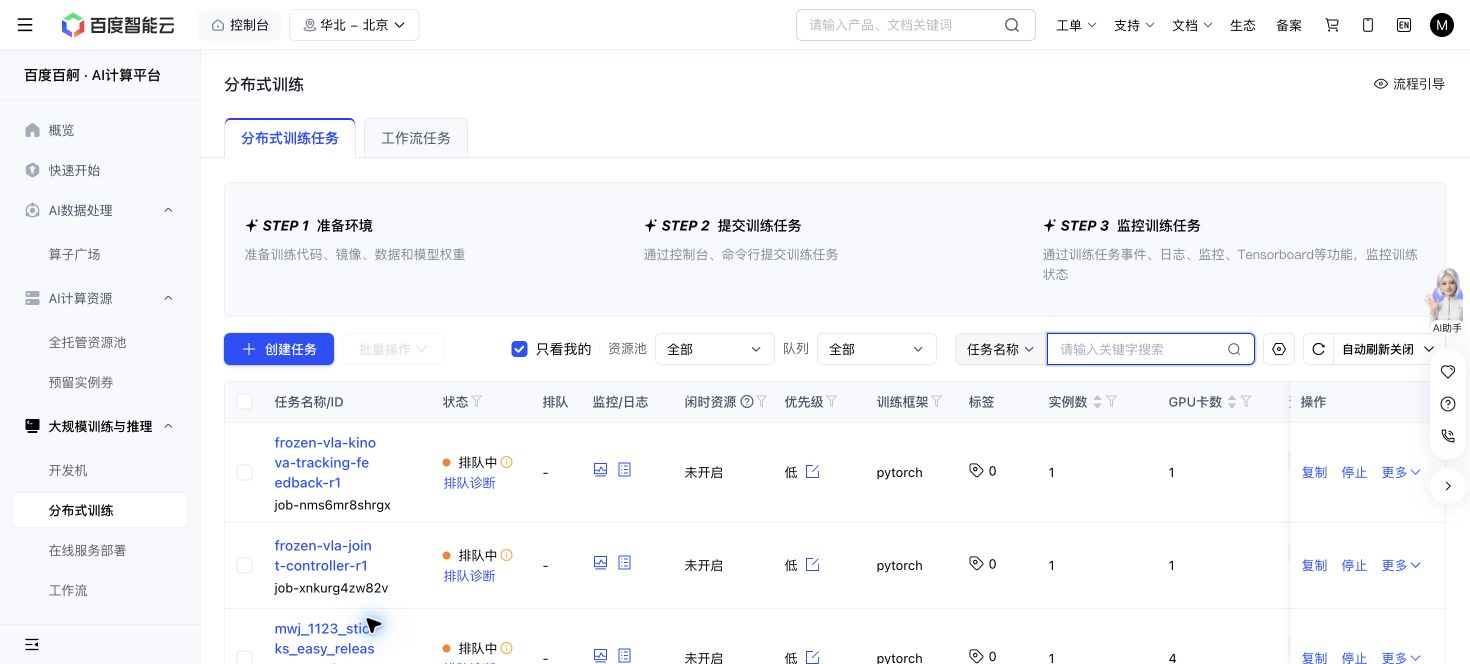
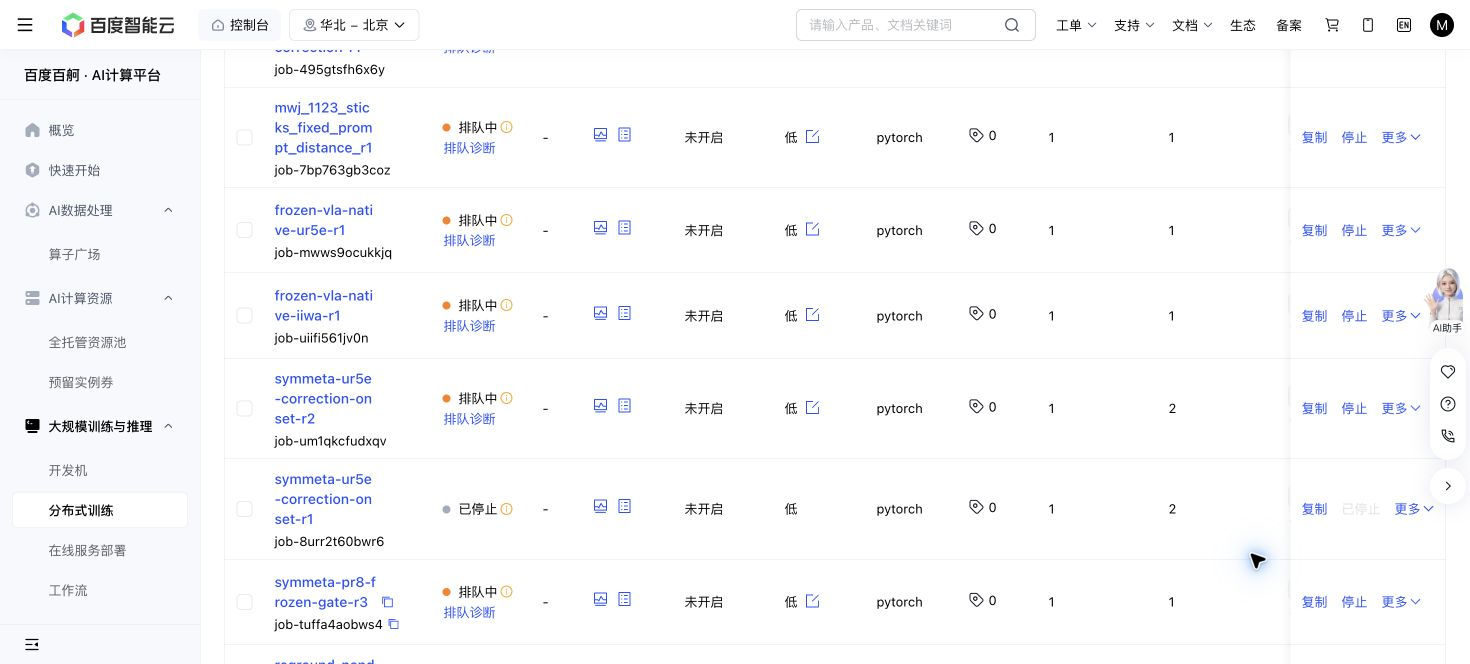
Launch the same-frame source-arm intervention and record all thirteen job states

diff --git a/outputs/frozen-vla-factory-20261123-r1/RESULT.md b/outputs/frozen-vla-factory-20261123-r1/RESULT.md
@@ -2,6 +2,8 @@
 
 **Question.** Can motion observed on a new arm identify a correction that recovers native task successes and preserves working behaviors? The task policy and its weights stay fixed. A change in the commanded direction, image, gripper or reachable poses can produce superficially similar failures. The comparisons below intervene on one of these at a time.
 
+**Baige status at 19:13 Shanghai, November 23.** Thirteen distinct GPU study submissions were verified in Distributed Training. Four completed (48 native arm-transfer episodes and 192 ReGround budget episodes). Nine await allocation. Of eight architecture jobs, the action and appearance panels finished, and six remain queued. Of five paper-control jobs, both budget evaluations finished. The false-correction, correction-onset and wrist-retry jobs remain queued. These totals count each scientific job once and exclude stopped or failed earlier attempts. Independent workers own the paired readbacks. [Scheduler receipt](scheduler.jpg) · [Coordination board](../coordination.md)
+
 **Candidate method.** A source model predicts how far the tool should move for a frozen policy command. A 15-control target trace estimates how this robot responds. At deployment, the adapter chooses a command whose predicted displacement matches the source movement, while penalizing departures from the frozen proposal. The source-shrunk 3D model uses measured metric end-effector position. A separate experiment tests whether adapting only the directions actually exercised in the trace improves over the ordinary ridge penalty. The existing SymMeta reader has a different information budget. It reads motion from fixed-camera video without seeing horizontal command values, then aligns the inferred motion with commands. This supplies a direction reference when the reported Cartesian displacement rotates with the command frame. Its established setting is planar command shifts. A change in camera orientation compromises that reference.
 
 **What prior work already covers.** ReGround tracks the motion intended by a frozen VLA using robot-state calibration and target dynamics. Mirage addresses cross-arm appearance and control using source-robot rendering and motion tracking. A general claim to freezing the policy and wrapping it with an adapter would duplicate prior work. The question here is what a short, passive trace identifies on a new arm and whether applying that correction increases success on the same held-out starts. [ReGround](https://arxiv.org/abs/2611.20244) · [Mirage](https://robot-mirage.github.io/)
@@ -27,7 +29,7 @@ The controller-interface experiment changes Panda's native Cartesian pose contro
 
 On drawer layout 14, Kinova opened the drawer 160.6 mm, touched it at 200 of 300 recorded steps and never touched the bowl. Its joints retained at least 0.756 rad of margin. On layout 15 it failed to open the drawer and touched the plate instead. Separate geometric tests also proved that one successful donor's final bowl contact at the donor wrist orientation lies outside Kinova's reach on both layouts. On layout 14 a 6.53° wrist change admitted the same position with finger-to-bowl contact. Another donor supplied a reachable release on both layouts. A policy adapter must be able to distinguish continuing to pull a drawer from approaching the next object, as well as infer which wrist attitudes the target can execute. [Recorded contacts, geometry and limits of each inference](../frozen-vla-reachability-20261123-r1/RESULT.md)
 
-Two workers are pursuing different explanations. One measures the effect of substituting source-arm geometry in the image at the current target gripper pose, with identical scene, camera and target physics and a target-render control. Another fits a small source-only progress estimator and tests whether public observations tell it when the drawer has opened on Kinova better than elapsed time. Both use held-out target observations and keep the VLA frozen. [Source-view registration](../frozen-vla-source-view-20261123-r1/PLAN.md)
+Job `job-69hluhi5wgb7` was submitted on one RTX 4090 with a 60-minute limit. Ten fixed observations and all six short native branch checks passed CPU qualification. The job measures the effect of substituting source-arm geometry in the image at the current target gripper pose, with identical scene, camera and target physics and a target-render control. A CPU worker fits a small source-only progress estimator and tests whether public observations tell it when the drawer has opened on Kinova better than elapsed time. Both keep the VLA frozen. RMA already learned rapid history-dependent motor adaptation for a quadruped, and SayCan used the current robot state to choose a feasible next skill. The open question here is whether a signal learned on source arms supports either intervention on a different arm using an existing frozen manipulation policy. [Source-view checks and launch command](../frozen-vla-source-view-20261123-r1/HANDOFF.md) · [Progress estimator and time controls](../frozen-vla-phase-transfer-20261123-r1/PLAN.md) · [RMA](https://ashish-kmr.github.io/rma-legged-robots/) · [SayCan](https://say-can.github.io/)
 
 ## Controls for the existing command-shift paper
 

diff --git a/outputs/coordination.md b/outputs/coordination.md
@@ -5,7 +5,7 @@
 | Work | Cluster / job / source | Last check, progress and next action |
 | --- | --- | --- |
 | Frozen VLA public drawer-phase transfer | Baige two-core CPU, no GPU | Testing source-only drawer-opening recognition against a fitted clock on held-out demonstrations and native Kinova3 trajectories. [Registered split and controls](frozen-vla-phase-transfer-20261123-r1/PLAN.md) |
-| Frozen VLA source morphology at the target grip site | Baige two-core CPU complete, 0 GPUh | All ten drawer exposures matched the native Kinova render exactly. Panda changed 1,946–8,244 external OpenPI pixels and zero wrist pixels. Starts 16/17 passed live transport. Parent owns the one-GPU, 60-minute maximum launch. [CPU evidence](frozen-vla-source-view-20261123-r1/RESULT.md) · [Exact command](frozen-vla-source-view-20261123-r1/HANDOFF.md) |
+| Frozen VLA source morphology at the target grip site | Baige two-core CPU complete, 0 GPUh | All ten drawer exposures matched the native Kinova render exactly. Panda changed 1,946–8,244 external OpenPI pixels and zero wrist pixels. Starts 16/17 passed live transport. Submitted as `job-69hluhi5wgb7` on one RTX 4090 at 19:12 Shanghai, 60-minute maximum. The native readback worker monitors the queue and paired starts. [CPU evidence](frozen-vla-source-view-20261123-r1/RESULT.md) · [Exact command](frozen-vla-source-view-20261123-r1/HANDOFF.md) |
 | Frozen VLA native arm transfer | Native rollout, motion, vision, gripper and feasibility workers | Shared comparison on fresh Panda and Kinova3 starts with native reward. Three-arm motion prediction tested on Baige CPU. Complete on two 4090s. Matched Kinova3 successes on six starts were 4 raw, 4 planar and 3 full; the appearance job gave 2 raw, 3 uniform and 3 linkwise. All six untreated opening proposals differed across jobs despite matched resets and noise. IIWA and UR5e eight-task screens submitted at 18:44 (`job-uiifi561jv0n`, `job-mwws9ocukkjq`). [Factory outcomes and controls](frozen-vla-factory-20261123-r1/RESULT.md). [Motion readout](frozen-vla-motion-models-20261123-r1/HANDOFF.md) · [Native cases](frozen-vla-native-transfer-20261123-r1/panel.py) |
 | Frozen VLA feedback, supported-direction correction and joint-space transfer | Baige `job-nms6mr8shrgx`, `job-495gtsfh6x6y`, `job-xnkurg4zw82v` | Submitted 18:52–18:55 Shanghai. Fresh versus stale feedback tests whether recent tracking errors aid task success. Supported-direction versus equal-dimension ridge and native joint control are separate matched tests. [Architecture candidates and receipts](frozen-vla-factory-20261123-r1/RESULT.md) |
 | Small-budget ReGround | Baige RTX 4090 jobs `job-oba1tdxissci` and `job-sc23pialxxia` | Complete 19:01. 192 native episodes, 1.11 launcher GPU-hours. Successes on 32 common starts across seeds 0/3 were 0/0 at 15 transitions, 0/5 at 100 and 9/19 at 1,000. The 10,000-transition controls gave 32/26. All opening checks passed. [Inputs and estimands](reground-low-budget-20261123-r1/HANDOFF.md) |

diff --git a/outputs/frozen-vla-source-view-20261123-r1/SCHEDULER.md b/outputs/frozen-vla-source-view-20261123-r1/SCHEDULER.md
@@ -1,0 +1,5 @@
+# Source-render native evaluation
+
+Baige Distributed Training accepted job `job-69hluhi5wgb7` at 19:12 Shanghai on November 23. The allocation requests one RTX 4090, 12 CPU cores and 48 GiB for up to 60 minutes, with zero automatic retries. It was waiting for an allocation at 19:13. [Baige receipt](scheduler.jpg)
+
+The deployed Git revision is `2b59cff7e173ee8064905256b98a1dd3fd0f79d5`. The launcher writes the GPU probe and paired policy outputs to `/mowenjie/fluffy-bassoon-2/outputs/frozen-vla-source-view-20261123-r1/gpu01`. The readback worker verifies matched policy inputs, repeated proposals, native rewards and any invalid rendered poses. [Input checks and reproduction command](HANDOFF.md)
